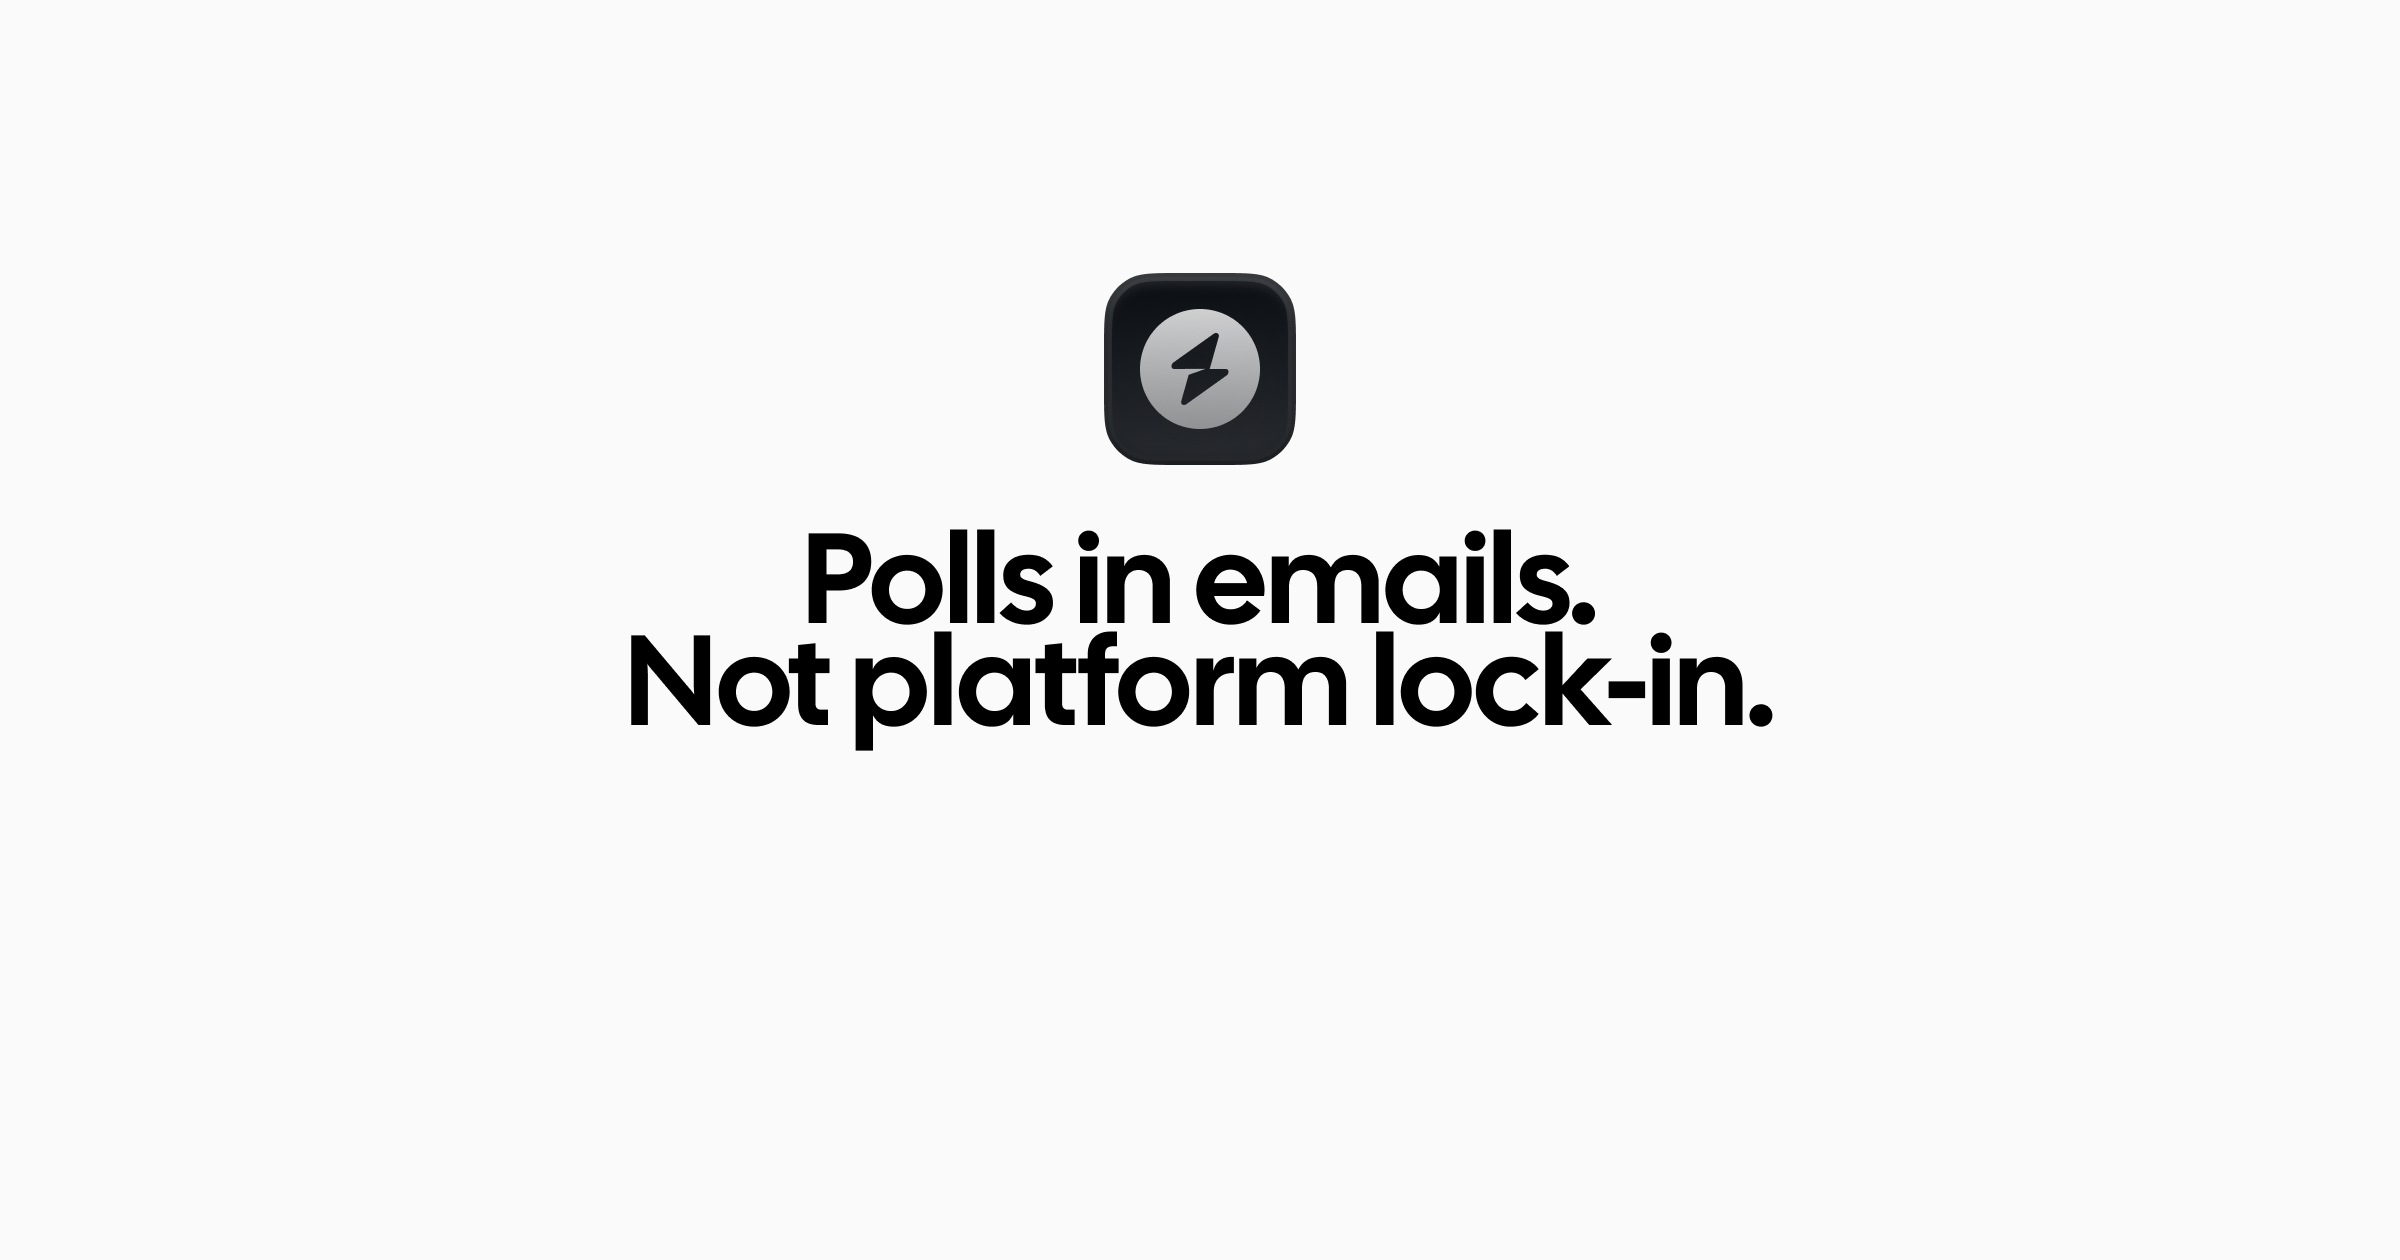
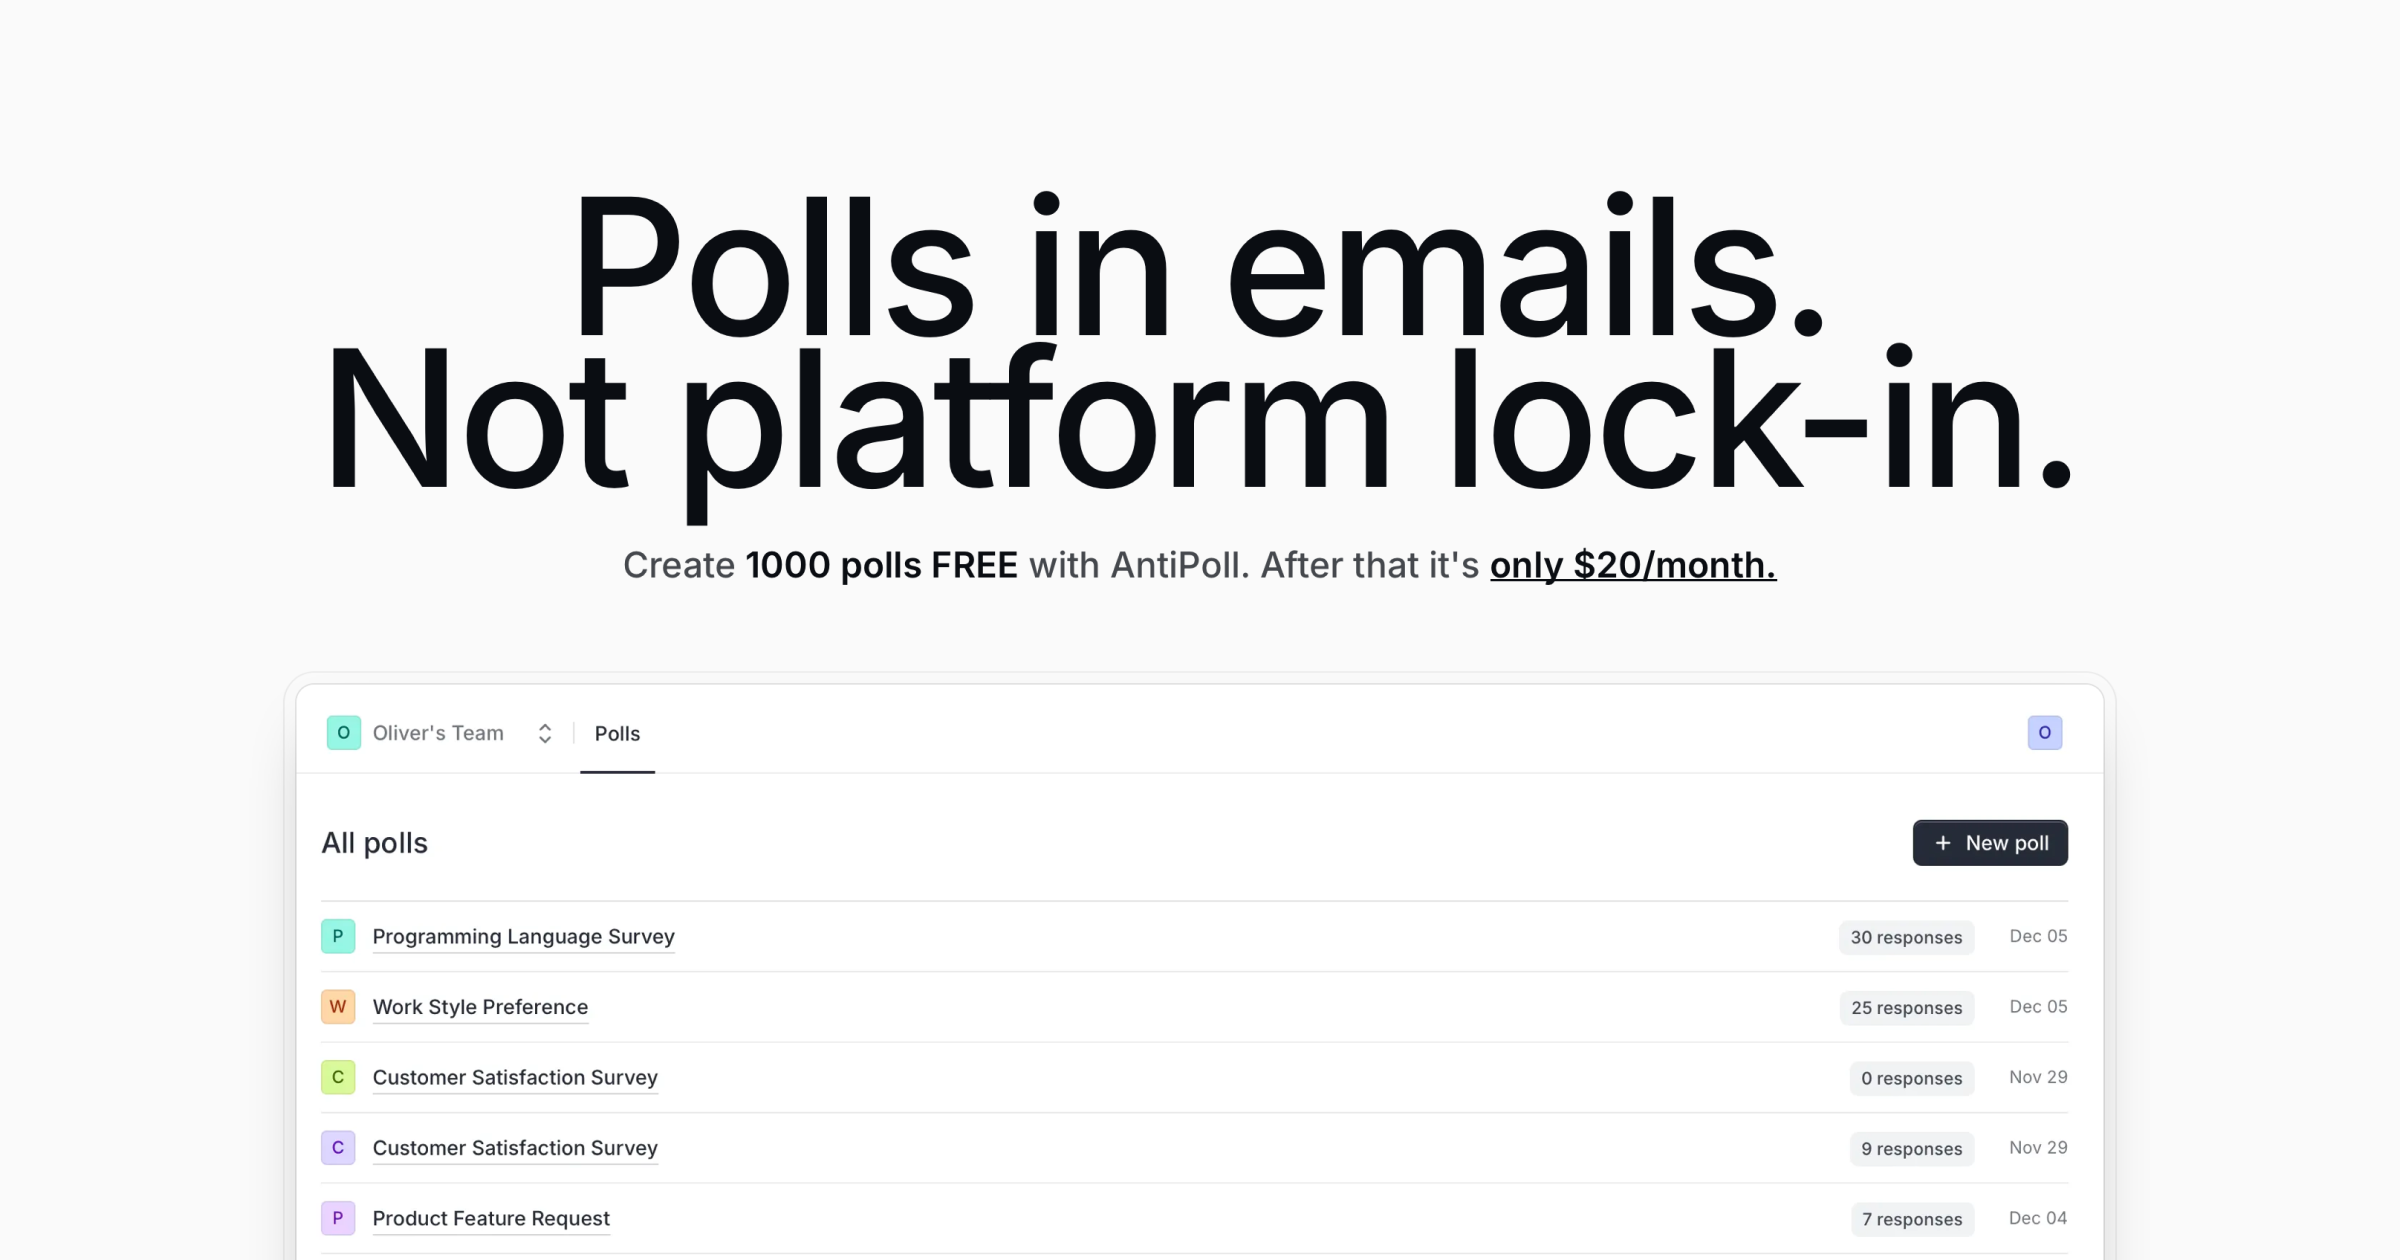
ui: update opengraph image and head template

diff --git a/resources/views/partials/head.blade.php b/resources/views/partials/head.blade.php
@@ -13,7 +13,7 @@
 <meta property="og:type" content="website" />
 
 <meta name="twitter:title" content="{{ config('app.name') }}" />
-<meta name="twitter:description" content="Supercharge Your Team’s Productivity" />
+<meta name="twitter:description" content="Polls in emails. Not platform lock-in." />
 <meta name="twitter:image" content="{{ url('/opengraph.png') }}" />
 <meta name="twitter:image:alt" content="{{ config('app.name') }}" />
 <meta name="twitter:card" content="summary_large_image" />
